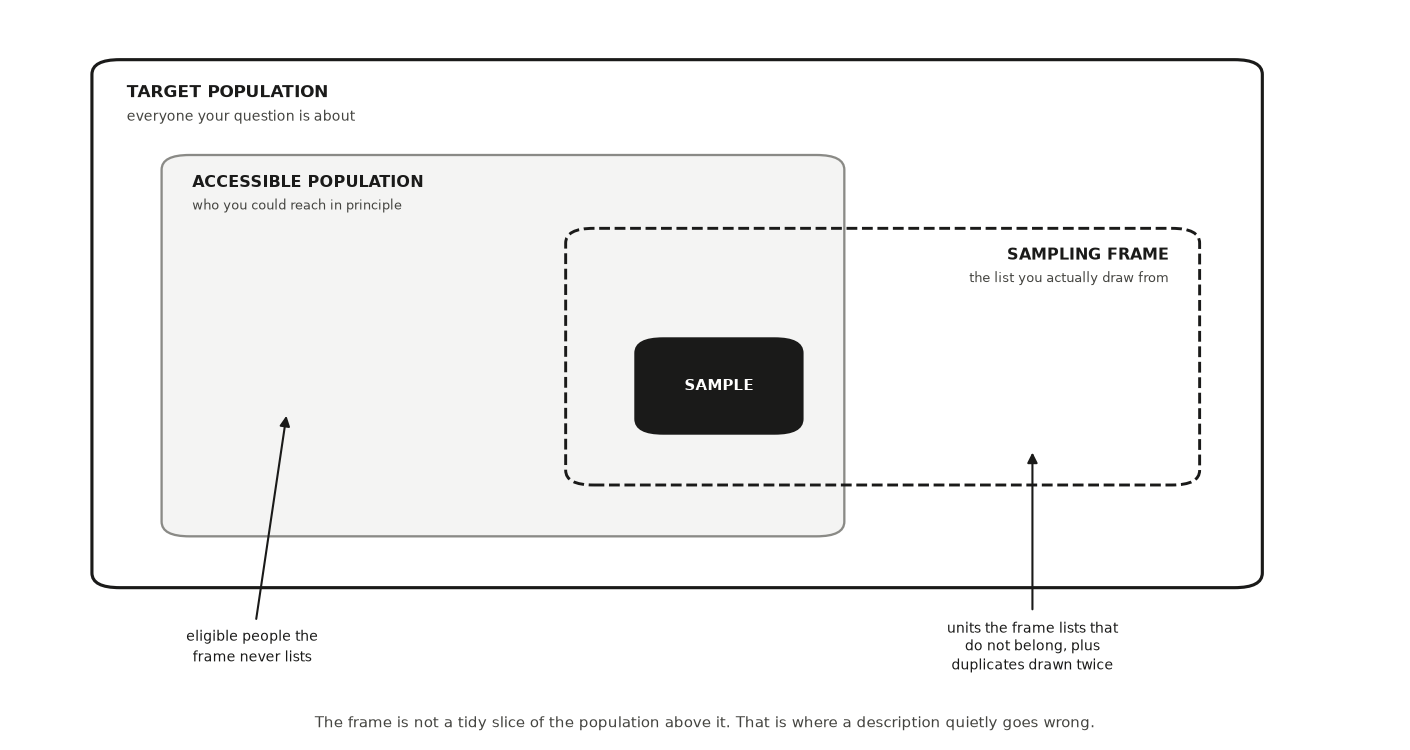
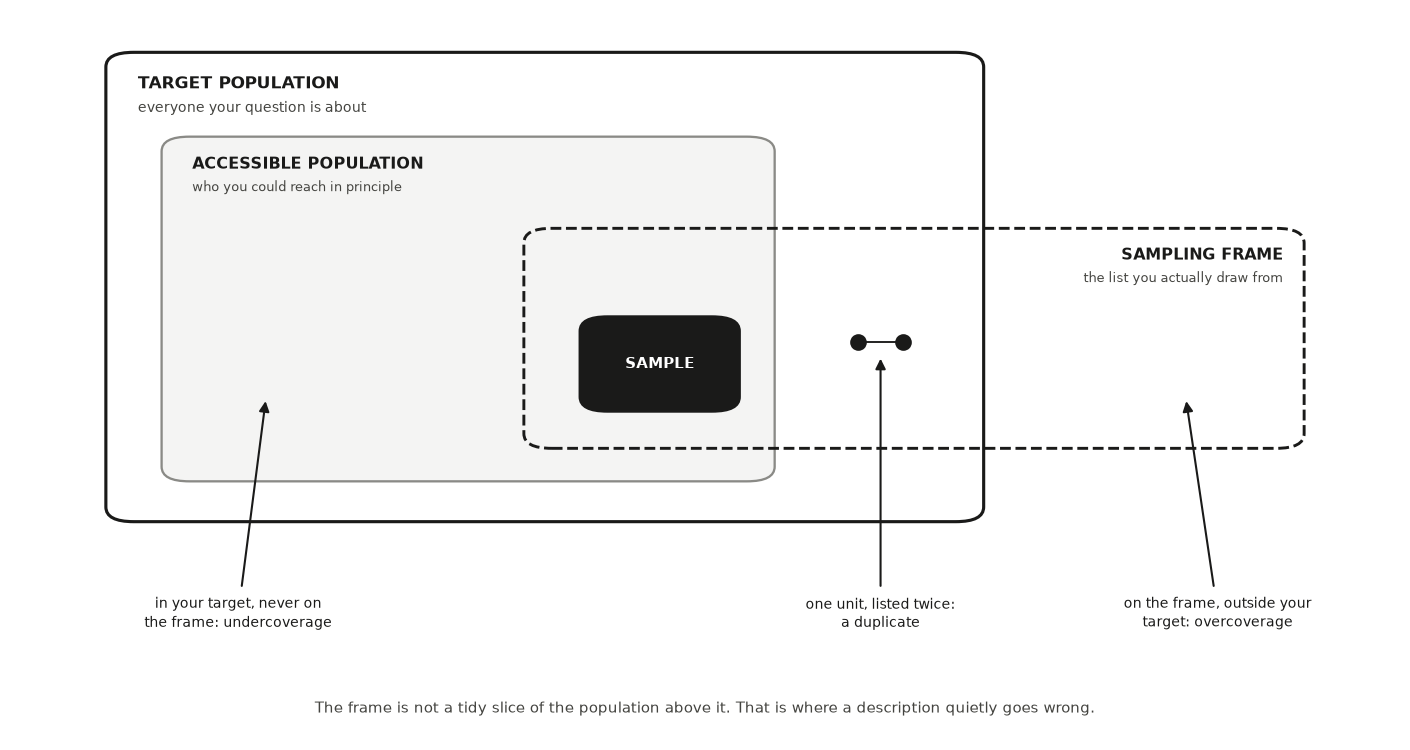
build: Render site and books (D48 review round)

diff --git a/docs/book/part2-curiosity-to-design/10-declaring-and-diagnosing-a-research-design.html b/docs/book/part2-curiosity-to-design/10-declaring-and-diagnosing-a-research-design.html
@@ -759,13 +759,13 @@ div.csl-indent {
 </section>
 <section id="the-concept" class="level2" data-number="12.2">
 <h2 data-number="12.2" class="anchored" data-anchor-id="the-concept"><span class="header-section-number">12.2</span> The concept</h2>
-<p>In chapter 9 you built the four parts of a design. This chapter puts them to the test with a three-step loop this book borrows from RDSS (<em>Research Design in the Social Sciences: Declare, Diagnose, Redesign</em>) <span class="citation" data-cites="blair2023rdss">(<a href="#ref-blair2023rdss" role="doc-biblioref">Blair et al. 2023</a>)</span>.</p>
+<p>In chapter 9 you built the four parts of a design. This chapter puts them to the test with a three-step loop this book borrows from RDSS (<em>Research Design in the Social Sciences: Declaration, Diagnosis, and Redesign</em>) <span class="citation" data-cites="blair2023rdss">(<a href="#ref-blair2023rdss" role="doc-biblioref">Blair et al. 2023</a>)</span>.</p>
 <p><strong>Declare</strong> means writing your four design parts as something a computer can run: a model that generates fake data, an inquiry it can compute on that fake data, a plan for sampling and assigning conditions, and a rule for turning data into an estimate. <em>Example:</em> code that invents 40 shoppers, flips a coin to give each the new checkout screen, and subtracts the two group averages.</p>
 <p><strong>Diagnose</strong> means running that declared design many times on fresh simulated worlds and watching how its estimate behaves. <em>Example:</em> run the coin-flip study 2,000 times and collect all 2,000 estimates. Three numbers start the story, and each answers a different worry.</p>
 <p><strong>Bias</strong> is the average of your errors across the runs, counting direction: each estimate minus the truth, averaged. A design is unbiased when its estimates center on the true answer. <em>Example:</em> the truth is 2, and five runs return 0, 1, 2, 3, and 4. The errors are -2, -1, 0, +1, +2, which average to zero, so bias is zero even though only one run landed on 2. Direction is what makes bias different from plain distance: misses that cancel tell you the design is aimed correctly, while misses that all lean one way tell you it is tilted.</p>
 <p><strong>Variance</strong> is how much the estimate wobbles from one run to the next. <em>Example:</em> estimates swinging between -5 and +9 around a true value of 2 have high variance. Collecting more of the same kind of data, from the same design, usually shrinks this wobble. It is the one problem size reliably helps.</p>
 <p><strong>Power</strong> is how often the design detects a real effect, and it means nothing until you say how you would decide <span class="citation" data-cites="greenland2016misinterpretations">(<a href="#ref-greenland2016misinterpretations" role="doc-biblioref">Greenland et al. 2016</a>)</span>. A <strong>statistical test</strong> is the rule you use to decide whether your data conflict enough with “no effect” to call the result real. <em>Example:</em> in the checkout study, a difference-in-means rule: declare an effect when the gap between the two groups is more than about twice its typical run-to-run wobble. The test’s <strong>threshold</strong> is how demanding that rule is, and it is read across imagined repetitions: at the usual 5 percent setting, a design whose true effect is ZERO would still cry effect in about 5 runs out of 100. The threshold is a property of the rule over many runs, never the chance that your one finding is false. <em>Example:</em> a design that clears that rule in 8 of 100 runs, when the true effect is 2, has 8% power, which is almost useless. Power moves with everything in the declaration: the test, the threshold, the effect you planted, the sample size, and how the world makes noise. Report the whole card beside the number.</p>
-<p>Bias, variance, and power are all the same kind of thing: a property of the design read across many simulated runs, never off a single study. Blair, Cooper, Coppock, and Humphreys introduced the term <strong>diagnosand</strong> for such a property, and the loop’s middle step takes its name from it <span class="citation" data-cites="blair2019declaring blair2023rdss">(<a href="#ref-blair2019declaring" role="doc-biblioref">Blair et al. 2019</a>, <a href="#ref-blair2023rdss" role="doc-biblioref">2023</a>)</span>.</p>
+<p>Bias, variance, and power are all the same kind of thing: a property of the design read across many simulated runs, never off a single study. Blair, Cooper, Coppock, and Humphreys introduced the term <strong>diagnosand</strong> for a property of a design you want to diagnose <span class="citation" data-cites="blair2019declaring blair2023rdss">(<a href="#ref-blair2019declaring" role="doc-biblioref">Blair et al. 2019</a>, <a href="#ref-blair2023rdss" role="doc-biblioref">2023</a>)</span>. Bias, variance, and power are three of them.</p>
 <p>Those three do not exhaust the pile, and fuller diagnoses add more. Two worth knowing by name. <strong>Root mean-squared error</strong> is the typical size of a miss, with big misses weighted extra. <em>Example:</em> in the five-run example above, the plain average distance is 1.2, but the RMSE is about 1.4, because the two 2-point misses count for more than their share. <strong>Coverage</strong> is how often the range you report around your estimate actually contains the truth. <em>Example:</em> if you report a range meant to be right 95 times out of 100, coverage checks whether it really is. A design can be unbiased and still miss badly every time, which is exactly why one number is never the whole diagnosis <span class="citation" data-cites="morris2019simulation">(<a href="#ref-morris2019simulation" role="doc-biblioref">Morris et al. 2019</a>)</span>. A later chapter builds these ranges properly; here you only need to know that a diagnosis can ask about them.</p>
 <p><strong>Redesign</strong> means changing exactly one part in response to the diagnosis, then diagnosing again. Low power from high variance calls for more data. A tilt built into the design, such as who ends up in which group, calls for a different design: more data makes a tilted estimate steadier, not truer.</p>
 <div class="quarto-figure quarto-figure-center">
@@ -821,7 +821,7 @@ div.csl-indent {
 <blockquote class="blockquote">
 <p><strong>You are working inside <a href="../studios/studio04-declare-and-diagnose.html">Studio 4: Declare and diagnose provisionally</a>.</strong> Keep what you write here; the studio’s milestone chapter is where it joins the other lessons’ pieces into one artifact you can defend. <!-- station-pointer:end --></p>
 </blockquote>
-<p><em>You have four design parts on paper. This step asks whether they would survive contact with the world, while a bad answer is still free.</em></p>
+<p><em>You have four design parts on paper. This step asks whether they would survive contact with the world, while a bad answer is still free. The declare-and-diagnose loop, and the word “diagnosand” for the properties you read out of it, come from Blair, Cooper, Coppock, and Humphreys, developed at book length in RDSS.</em></p>
 <p>The hands-on half of this section lives in the chapter’s <strong>companion notebook</strong>: open it in Colab with the badge at the top, and work the steps there.</p>
 <p>Commit your own expectation first, then delegate. Each prompt below leaves you a draft you still have to check. Simulation is where the loop gets fastest and most dangerous at once: modern coding assistants will write the script, run it, read the error, and patch it without waiting for you, and they will happily converge on code that runs cleanly while declaring a different design than yours. Let the tool own the typing. Keep ownership of the true effect you plant and the numbers you read out.</p>
 <div class="callout callout-style-default callout-important callout-titled" title="Do not delegate">

diff --git a/docs/book/part3-pathways/11-observational-descriptive-research.html b/docs/book/part3-pathways/11-observational-descriptive-research.html
@@ -760,18 +760,18 @@ div.csl-indent {
 </section>
 <section id="the-concept" class="level2" data-number="14.2">
 <h2 data-number="14.2" class="anchored" data-anchor-id="the-concept"><span class="header-section-number">14.2</span> The concept</h2>
-<p>This chapter follows the observational-descriptive pathway of the design library in RDSS <span class="citation" data-cites="blair2023rdss">(<a href="#ref-blair2023rdss" role="doc-biblioref">Blair et al. 2023</a>)</span>. <strong>Observational descriptive research</strong> means you sample and measure without assigning anyone a condition, then summarize what you found. Example: you pull the roll call records of every member of a legislature and report how often each one crossed party lines. Because no treatment is assigned, this pathway can describe, and with care generalize to a population, but it cannot by itself say one thing caused another.</p>
+<p>This chapter follows the observational-descriptive pathway of the design library in RDSS <span class="citation" data-cites="blair2023rdss">(<a href="#ref-blair2023rdss" role="doc-biblioref">Blair et al. 2023</a>)</span>. <strong>Observational descriptive research</strong> means you sample and measure without assigning anyone a condition, then summarize what you found. Example: you pull the roll call records of every member of a legislature and report how often each one crossed party lines. Because its inquiry and its answer strategy are descriptive, this pathway estimates distributions and relationships, and with care generalizes them to a population. Those estimates do not by themselves identify a causal effect. The next chapter takes the other road: observational data again, no assignment again, but a causal inquiry that has to carry an identification argument to earn its answer.</p>
 <p>Four groups keep such a description honest <span class="citation" data-cites="groves2009survey">(<a href="#ref-groves2009survey" role="doc-biblioref">Groves et al. 2009</a>)</span>. They are often drawn as boxes inside boxes, and that picture is worth knowing along with the place it lies.</p>
 <ul>
 <li><strong>Target population</strong>: everyone your question is about. Example: every customer a streaming service will ever bill. This is the group you wish you could study.</li>
 <li><strong>Accessible population</strong>: the part of the target you could reach in principle, given time and cost. Example: the customers you can actually contact with a survey this quarter.</li>
-<li><strong>Sampling frame</strong>: the concrete list you actually draw from. Example: the current subscriber list your survey tool pulls from. This is the box that misbehaves. A frame can miss people who belong in your target, and it can also carry people who do not belong at all, plus duplicates that give one person two chances of being picked. Treating the frame as a clean slice of the population above it is one of the quietest ways a description goes wrong.</li>
+<li><strong>Sampling frame</strong>: the concrete list you actually draw from. Example: the current subscriber list your survey tool pulls from. This is the box that misbehaves, in three ways worth naming. <strong>Undercoverage</strong> is people who belong in your target and never make the list. <strong>Overcoverage</strong> is records on the list for people outside your target altogether. A <strong>duplicate</strong> is one person listed twice, which quietly gives them two chances of being picked. Treating the frame as a clean slice of the population above it is one of the quietest ways a description goes wrong.</li>
 <li><strong>Sample</strong>: the customers you actually survey, drawn from the frame and no wider.</li>
 </ul>
 <div class="quarto-figure quarto-figure-center">
 <figure class="figure">
-<p><img src="../images/concepts/sampling_groups.png" class="img-fluid figure-img" alt="Diagram of four overlapping regions labeled target population, accessible population, sampling frame, and sample. The frame region extends partly outside the accessible population to show ineligible units, and part of the accessible population falls outside the frame to show eligible people the frame misses. The sample sits inside the frame."></p>
-<figcaption>The four groups a description has to keep straight. Only the sample is drawn from the frame, and the frame is not a tidy slice of the population above it: it misses eligible people and carries ineligible ones and duplicates.</figcaption>
+<p><img src="../images/concepts/sampling_groups.png" class="img-fluid figure-img" alt="Diagram of overlapping regions. A large box is the target population; inside it, a shaded box is the accessible population. A dashed box, the sampling frame, starts inside those and extends out past the right edge of the target population. The sample is a solid box inside the frame. Three labels point into the picture: the part of the target never listed on the frame is undercoverage; the part of the frame outside the target is overcoverage; and two joined dots inside the frame are one unit listed twice, a duplicate."></p>
+<figcaption>The four groups a description has to keep straight. The frame crosses the edge of your target population, which is where the three coverage errors live: people inside the target who never reach the list, records on the list that fall outside the target altogether, and one unit listed twice.</figcaption>
 </figure>
 </div>
 <p>A claim is honest only when the box it describes matches the box it names. Two processes decide how the boxes differ. <strong>Selection</strong> is any process that decides who lands in your data instead of chance alone. Example: a survey taken outside one dining hall selects for people who eat there at lunch. <strong>Nonresponse</strong> is the units you drew who never gave you data. Example: of 500 people contacted, 300 reply, and the 200 silent ones are rarely a random slice. When either process relates to the very thing you are measuring, your summary drifts from the truth, and no amount of extra data pulls it back <span class="citation" data-cites="bethlehem2010selection">(<a href="#ref-bethlehem2010selection" role="doc-biblioref">Bethlehem 2010</a>)</span>. Size shrinks the sample-to-sample wobble. It does nothing to a systematic tilt in who you reached <span class="citation" data-cites="meng2018paradises">(<a href="#ref-meng2018paradises" role="doc-biblioref">Meng 2018</a>)</span>.</p>

diff --git a/docs/book/part2-curiosity-to-design/09-model-inquiry-data-strategy-and-answer-strategy.html b/docs/book/part2-curiosity-to-design/09-model-inquiry-data-strategy-and-answer-strategy.html
@@ -759,7 +759,7 @@ div.csl-indent {
 </section>
 <section id="the-concept" class="level2" data-number="10.2">
 <h2 data-number="10.2" class="anchored" data-anchor-id="the-concept"><span class="header-section-number">10.2</span> The concept</h2>
-<p>Every research design has the same four parts. Blair, Cooper, Coppock, and Humphreys named that framework <strong>MIDA</strong>, one letter each, and developed it at book length in <em>Research Design in the Social Sciences</em> <span class="citation" data-cites="blair2019declaring blair2023rdss">(<a href="#ref-blair2019declaring" role="doc-biblioref">Blair et al. 2019</a>, <a href="#ref-blair2023rdss" role="doc-biblioref">2023</a>)</span>. This book adopts their four labels and puts them in plain language for a first quantitative project.</p>
+<p>Any research design can be described in four parts. Blair, Cooper, Coppock, and Humphreys named that framework <strong>MIDA</strong>, one letter each <span class="citation" data-cites="blair2019declaring">(<a href="#ref-blair2019declaring" role="doc-biblioref">Blair et al. 2019</a>)</span>, and Blair, Coppock, and Humphreys developed it at book length in <em>Research Design in the Social Sciences</em> <span class="citation" data-cites="blair2023rdss">(<a href="#ref-blair2023rdss" role="doc-biblioref">Blair et al. 2023</a>)</span>. This book adopts their four labels and puts them in plain language for a first quantitative project.</p>
 <ul>
 <li><strong>Model</strong>: your written picture of how the world could work, meaning which things exist and what could affect what. Example: “a listener’s chance of accepting a recommended song runs from 0 to 1, and a new recommender could nudge it up.”</li>
 <li><strong>Inquiry</strong>: the one exact quantity you want from that world, named before any outcome arrive. Example: “the average lift in accept rate the new recommender causes across listeners.”</li>
@@ -768,8 +768,8 @@ div.csl-indent {
 </ul>
 <div class="quarto-figure quarto-figure-center">
 <figure class="figure">
-<p><img src="../images/concepts/mida_map.png" class="img-fluid figure-img" alt="Diagram with four rounded boxes in two rows. Top row, labeled on paper: Model, how the world could work, with an arrow labeled makes askable pointing to Inquiry, the one quantity you want from it. Bottom row, labeled in the world: Data strategy, every procedure that makes the data, with an arrow labeled feeds pointing to Answer strategy, how those data become an answer. A dashed arrow runs upward from Answer strategy to Inquiry, labeled alignment: does the answer reach the inquiry?"></p>
-<figcaption>The four parts of a design. The top row is what you assert on paper; the bottom row is what you actually run. The dashed arrow is the check that matters: your answer strategy has to reach the inquiry you named.</figcaption>
+<p><img src="../images/concepts/mida_map.png" class="img-fluid figure-img" alt="Diagram with four rounded boxes in two rows. Top row, labeled what you want to learn: Model, how the world could work, with an arrow labeled makes askable pointing to Inquiry, the one quantity you want from it. Bottom row, labeled how you will learn it: Data strategy, every procedure that makes the data including sampling, assignment and measurement, with an arrow labeled feeds pointing to Answer strategy, how those data become an answer with uncertainty included. A dashed arrow runs upward from Answer strategy to Inquiry, labeled alignment: does the answer reach the inquiry?"></p>
+<figcaption>The four parts of a design. The top row is what you want to learn; the bottom row is how you plan to learn it. All four are written down before you collect anything, and the dashed arrow is the check that matters: your answer strategy has to reach the inquiry you named.</figcaption>
 </figure>
 </div>
 <p>The four are not a checklist you fill in any order <span class="citation" data-cites="blair2023rdss">(<a href="#ref-blair2023rdss" role="doc-biblioref">Blair et al. 2023</a>)</span>. They must <strong>align</strong>, meaning your data and answer strategies actually reach the inquiry your model makes askable. Example of misalignment: a causal inquiry (“the lift the recommender <em>causes</em>”) served by a data strategy where the people who see the new version differ systematically from those who do not. What that comparison delivers is an <strong>association</strong>, meaning two things move together without proof that one caused the other.</p>
@@ -818,7 +818,7 @@ div.csl-indent {
 <blockquote class="blockquote">
 <p><strong>You are working inside <a href="../studios/studio04-declare-and-diagnose.html">Studio 4: Declare and diagnose provisionally</a>.</strong> Keep what you write here; the studio’s milestone chapter is where it joins the other lessons’ pieces into one artifact you can defend. <!-- station-pointer:end --></p>
 </blockquote>
-<p><em>You have a question and a gap you can defend. This step turns them into a design, on one page, in four parts that have to agree with each other.</em></p>
+<p><em>You have a question and a gap you can defend. This step turns them into a design, on one page, in four parts that have to agree with each other. Those four parts are the MIDA framework of Blair, Cooper, Coppock, and Humphreys, developed at book length in RDSS; you are writing your own project into their labels.</em></p>
 <p>The hands-on half of this section lives in the chapter’s <strong>companion notebook</strong>: open it in Colab with the badge at the top, and work the steps there.</p>
 <p>Write your own draft of each part first, then ask. Committing first gives the AI output something to disagree with. And expect to go around more than once: draft, read the reply, correct the one part it got wrong, paste your correction back, ask again. Each turn should sharpen the inquiry into fewer words, not more.</p>
 <div class="callout callout-style-default callout-important callout-titled" title="Do not delegate">

diff --git a/docs/book/part3-pathways/16-hybrid-and-complex-designs.html b/docs/book/part3-pathways/16-hybrid-and-complex-designs.html
@@ -762,7 +762,7 @@ div.csl-indent {
 </section>
 <section id="the-concept" class="level2" data-number="19.2">
 <h2 data-number="19.2" class="anchored" data-anchor-id="the-concept"><span class="header-section-number">19.2</span> The concept</h2>
-<p>Every research design has four parts, named <strong>MIDA</strong> by Blair, Cooper, Coppock, and Humphreys <span class="citation" data-cites="blair2019declaring blair2023rdss">(<a href="#ref-blair2019declaring" role="doc-biblioref">Blair et al. 2019</a>, <a href="#ref-blair2023rdss" role="doc-biblioref">2023</a>)</span>: the <strong>Model</strong> (your written picture of how the world could work), the <strong>Inquiry</strong> (the one exact quantity you want from it), the <strong>Data strategy</strong> (every procedure that makes the data, from sampling to measurement), and the <strong>Answer strategy</strong> (the whole procedure that turns those data into an answer, uncertainty included). The Colab lab builds all four from scratch. This chapter takes them somewhere harder.</p>
+<p>Every research design has four parts, named <strong>MIDA</strong> by Blair, Cooper, Coppock, and Humphreys <span class="citation" data-cites="blair2019declaring">(<a href="#ref-blair2019declaring" role="doc-biblioref">Blair et al. 2019</a>)</span> and developed in RDSS <span class="citation" data-cites="blair2023rdss">(<a href="#ref-blair2023rdss" role="doc-biblioref">Blair et al. 2023</a>)</span>: the <strong>Model</strong> (your written picture of how the world could work), the <strong>Inquiry</strong> (the one exact quantity you want from it), the <strong>Data strategy</strong> (every procedure that makes the data, from sampling to measurement), and the <strong>Answer strategy</strong> (the whole procedure that turns those data into an answer, uncertainty included). The Colab lab builds all four from scratch. This chapter takes them somewhere harder.</p>
 <p>A <strong>complex, or hybrid, design</strong> is a research design whose four MIDA parts have more than one moving piece: several measurements, stages, or sub-questions stitched into a single answer <span class="citation" data-cites="blair2023rdss">(<a href="#ref-blair2023rdss" role="doc-biblioref">Blair et al. 2023</a>)</span>. Example: computing a market’s concentration score from two separate measurements, each drawn from its own source and carrying its own error.</p>
 <p>Two ideas decide whether such a design holds together. The first is <strong>alignment</strong>, meaning all four parts point at the same single quantity. Complexity breaks it in a fresh way: two carefully built sub-measurements can each be fine yet quietly target slightly different quantities that never combine into the one you named. The second is <strong>error propagation</strong>, meaning each measured input’s uncertainty flows into the final answer, sometimes amplified <span class="citation" data-cites="jcgm2008gum">(<a href="#ref-jcgm2008gum" role="doc-biblioref">Joint Committee for Guides in Metrology 2008</a>)</span>. Example: if your answer depends on the <em>square</em> of a measured share, a 1% error in that share becomes roughly a 2% error in the result.</p>
 <p>Keep the lab’s two failure words close. <strong>Bias</strong> is a systematic tilt that more data does not shrink; <strong>variance</strong> is run-to-run wobble that more data does. Complexity lets a small systematic error hide behind an impressively small random one.</p>
@@ -806,7 +806,7 @@ div.csl-indent {
 <blockquote class="blockquote">
 <p><strong>You are working inside <a href="../studios/studio05-develop-the-pathway.html">Studio 5: Develop the pathway</a>.</strong> This lesson is an optional overlay: work it when your project needs it, and skip it without guilt when it does not. <!-- station-pointer:end --></p>
 </blockquote>
-<p><em>You have studied your primary pathway and at least one useful contrast. This step decides whether your own project needs more than one moving piece, and makes you justify the answer either way.</em></p>
+<p><em>You have studied your primary pathway and at least one useful contrast. This step decides whether your own project needs more than one moving piece, and makes you justify the answer either way. The four MIDA parts you are taking apart here are Blair, Cooper, Coppock, and Humphreys’ framework, developed at book length in RDSS.</em></p>
 <p>The hands-on half of this section lives in the chapter’s <strong>companion notebook</strong>: open it in Colab with the badge at the top, and work the steps there.</p>
 <p>Commit your own answer first, then delegate. Each prompt is a checkable job, not a request for a verdict. Run them as a loop rather than a single shot: the second pass, where you hand back the piece the tool skipped and ask again, is usually the one that finds the uncharacterized step. Agentic tools that chain those passes themselves will assemble a complete-looking error budget in one go. A complete look is the failure mode this chapter is about.</p>
 <div class="callout callout-style-default callout-important callout-titled" title="Do not delegate">

diff --git a/docs/index.html b/docs/index.html
@@ -228,8 +228,8 @@ ul.task-list li input[type="checkbox"] {
 <section id="course-materials" class="level2">
 <h2 class="anchored" data-anchor-id="course-materials">Course Materials</h2>
 <ul>
-<li><p><strong>Course book (free, required):</strong> the course’s own open text, <a href="book/index.html" target="_blank"><strong>EDR|AI</strong> — <strong><em>Evidence-Driven Research in the Age of AI: How to Design, Analyze, Verify, and Defend</em></strong></a>, with AI generated translations in <a href="book-pt/index.html" target="_blank">Brazilian Portuguese</a> and <a href="book-es/index.html" target="_blank">Spanish</a>. It walks through the material at an undergraduate reading level, and every chapter has its <strong>own companion Colab notebook</strong> where you run the chapter’s code and complete its closing <strong>“It is your turn”</strong> section. <strong>EDR|AI is a work in progress</strong>: it is still under development and will keep growing and improving during the semester.</p></li>
-<li><p><strong>Theory text (free, recommended):</strong> <strong>Blair, Coppock &amp; Humphreys (2023), <em>Research Design in the Social Sciences: Declaration, Diagnosis, and Redesign</em></strong> (RDSS, Princeton University Press) — read <strong>free online</strong> at <a href="https://book.declaredesign.org/" target="_blank">book.declaredesign.org</a>; no purchase required. The course book translates RDSS to the undergraduate audience, so each week the course-book chapters are <strong>required</strong> and the matching RDSS chapters are <strong>recommended</strong>.</p></li>
+<li><p><strong>Course book (free to read, required):</strong> the course’s own book, <a href="book/index.html" target="_blank"><strong>EDR|AI</strong> — <strong><em>Evidence-Driven Research in the Age of AI: How to Design, Analyze, Verify, and Defend</em></strong></a>, with AI generated translations in <a href="book-pt/index.html" target="_blank">Brazilian Portuguese</a> and <a href="book-es/index.html" target="_blank">Spanish</a>. It walks through the material at an undergraduate reading level, and every chapter has its <strong>own companion Colab notebook</strong> where you run the chapter’s code and complete its closing <strong>“It is your turn”</strong> section. <strong>EDR|AI is a work in progress</strong>: it is still under development and will keep growing and improving during the semester.</p></li>
+<li><p><strong>Theory text (free, recommended):</strong> <strong>Blair, Coppock &amp; Humphreys (2023), <em>Research Design in the Social Sciences: Declaration, Diagnosis, and Redesign</em></strong> (RDSS, Princeton University Press) — read <strong>free online</strong> at <a href="https://book.declaredesign.org/" target="_blank">book.declaredesign.org</a>; no purchase required. The course book draws on and adapts selected parts of RDSS for a first quantitative empirical project at an undergraduate reading level; it is a companion and an operational on-ramp, not a translation or a substitute. Each week the course-book chapters are <strong>required</strong> and the matching RDSS chapters are <strong>recommended</strong>.</p></li>
 <li><p><strong>Optional companion:</strong> Bergstrom &amp; West, <em>Calling Bullshit</em> (public case studies at <a href="https://callingbullshit.org/" target="_blank">callingbullshit.org</a>). Any additional readings are posted on Brightspace.</p></li>
 <li><p><strong>Computing (Required):</strong> A laptop or desktop with internet access and a modern web browser. Course activities run in the browser through <a href="https://colab.research.google.com/" target="_blank">Google Colab</a> — no local installation required. There are <strong>no purchases</strong> required for this course.</p></li>
 <li><p><strong>AI Tools:</strong></p>

diff --git a/docs/book/part2-curiosity-to-design/05-from-curiosity-to-a-research-problem.html b/docs/book/part2-curiosity-to-design/05-from-curiosity-to-a-research-problem.html
@@ -793,7 +793,7 @@ div.csl-indent {
 </ol>
 <p>Stop there. Units, outcomes, conditions, question kind, and claim reach belong to the formal declaration that closes the next studio.</p>
 <p>Then test the problem three ways <span class="citation" data-cites="hulley2013designing">(<a href="#ref-hulley2013designing" role="doc-biblioref">Hulley et al. 2013</a>)</span>. <strong>Importance</strong> asks who could use the answer, and for what. <strong>Feasibility</strong> asks whether you can reach suitable evidence with the time, skills, and permissions you actually have. <strong>Possible contribution</strong> asks what the project might add — and stays provisional, because you cannot know a gap is real until Studio 3 maps the existing evidence.</p>
-<p>One more lens sharpens all three. A 2026 essay in <em>Science</em>, “Advancing science by designing for surprise,” starts from a blunt fact: an answer that confirms what everyone already believes teaches almost nothing <span class="citation" data-cites="evans2026surprise">(<a href="#ref-evans2026surprise" role="doc-biblioref">Evans et al. 2026</a>)</span>. The essay makes the idea usable: elicit informed predictions first, then compare them with what the evidence actually shows. <strong>Surprise</strong> is what that comparison measures. Before you look at any evidence, then, write the answer you currently expect and name the person for whom a different answer would be genuinely surprising. That written sentence is your <strong>expected answer</strong>, and the gap between it and what you eventually find is the most honest measure of what your project taught anyone. The essay’s warning travels with the tool: the more surprising the claim, the more evidence it takes, so surprise is a place to aim your question, never a license to inflate your answer.</p>
+<p>One more lens sharpens all three. A 2026 essay in <em>Science</em>, “Advancing science by designing for surprise,” starts from a blunt fact: an answer that confirms what everyone already believes teaches almost nothing <span class="citation" data-cites="evans2026surprise">(<a href="#ref-evans2026surprise" role="doc-biblioref">Evans et al. 2026</a>)</span>. The essay makes the idea usable: elicit informed predictions first, then compare them with what the evidence actually shows. The gap it names sits at the level of an <strong>audience</strong>, meaning the informed readers whose expectations your result would move, not at the level of any one researcher. Before you look at any evidence, then, write the answer you currently expect and name the person for whom a different answer would be genuinely surprising. That written sentence is your <strong>expected answer</strong>. Treat it as a planning proxy for that audience gap rather than a measure of what anyone learned, which would take evidence about the audience you do not have yet. The essay’s warning travels with the tool: the more surprising the claim, the more evidence it takes, so surprise is a place to aim your question, never a license to inflate your answer.</p>
 </section>
 <section id="a-worked-example" class="level2" data-number="1.3">
 <h2 data-number="1.3" class="anchored" data-anchor-id="a-worked-example"><span class="header-section-number">1.3</span> A worked example</h2>

diff --git a/docs/book/studios/studio04-declare-and-diagnose.html b/docs/book/studios/studio04-declare-and-diagnose.html
@@ -715,7 +715,7 @@ div.csl-indent {
 </blockquote>
 <section id="checkpoint" class="level2">
 <h2 class="anchored" data-anchor-id="checkpoint">The milestone ahead</h2>
-<p>This is the hinge of the book. Everything before it shaped a question; everything after it executes a design. The contract you write here (objective, estimand, population, data strategy, a provisional operationalization, warrant, answer strategy, uncertainty) is declared before any result exists, so that later changes are visibly design or visibly drift. Diagnosing it on simulated data now, while changing your mind is still free, is what makes the declaration honest rather than decorative. The four MIDA parts you declare here, and the declare-and-diagnose loop you run on them, were introduced by Blair, Cooper, Coppock, and Humphreys <span class="citation" data-cites="blair2019declaring blair2023rdss">(<a href="#ref-blair2019declaring" role="doc-biblioref">Blair et al. 2019</a>, <a href="#ref-blair2023rdss" role="doc-biblioref">2023</a>)</span>; this book puts them in plain language and joins them to a governed AI workflow.</p>
+<p>This is the hinge of the book. Everything before it shaped a question; everything after it executes a design. The contract you write here (objective, estimand, population, data strategy, a provisional operationalization, warrant, answer strategy, uncertainty) is declared before any result exists, so that later changes are visibly design or visibly drift. Diagnosing it on simulated data now, while changing your mind is still free, is what makes the declaration honest rather than decorative. The four MIDA parts you declare here, and the declare-and-diagnose loop you run on them, were introduced by Blair, Cooper, Coppock, and Humphreys <span class="citation" data-cites="blair2019declaring">(<a href="#ref-blair2019declaring" role="doc-biblioref">Blair et al. 2019</a>)</span> and developed in RDSS <span class="citation" data-cites="blair2023rdss">(<a href="#ref-blair2023rdss" role="doc-biblioref">Blair et al. 2023</a>)</span>; this book puts them in plain language and joins them to a governed AI workflow.</p>
 <p>This studio closes with <strong><a href="../studios/milestone04-declare-and-diagnose.html">Milestone 4: Your research contract, v0</a></strong>, a short chapter of its own after the lessons. <strong>What it asks you to produce.</strong> Research Contract v0 — objective, target estimand, population, setting and time, data strategy, a provisional operationalization you mark for revision, warrant, answer strategy and uncertainty statement — plus the design properties you diagnosed (its bias, its wobble, and how often it would detect what you are looking for), your permission status, and a redesign record. Measurement proper is taught and assessed in Studio 6; here you only commit to a starting choice and say why it is defensible for now.</p>
 <p>Milestone 5 commits the contract to one research pathway and writes what that pathway can and cannot establish. The milestone chapter keeps the working details: the practice steps, the versioned record, and how the artifact is assessed.</p>
 </section>

diff --git a/docs/book/studios/studio05-develop-the-pathway.html b/docs/book/studios/studio05-develop-the-pathway.html
@@ -23,7 +23,26 @@ ul.task-list li input[type="checkbox"] {
   margin: 0 0.8em 0.2em -1em; /* quarto-specific, see https://github.com/quarto-dev/quarto-cli/issues/4556 */ 
   vertical-align: middle;
 }
-</style>
+/* CSS for citations */
+div.csl-bib-body { }
+div.csl-entry {
+  clear: both;
+}
+.hanging-indent div.csl-entry {
+  margin-left:2em;
+  text-indent:-2em;
+}
+div.csl-left-margin {
+  min-width:2em;
+  float:left;
+}
+div.csl-right-inline {
+  margin-left:2em;
+  padding-left:1em;
+}
+div.csl-indent {
+  margin-left: 2em;
+}</style>
 
 
 <script src="../site_libs/quarto-nav/quarto-nav.js"></script>
@@ -608,6 +627,7 @@ ul.task-list li input[type="checkbox"] {
   <li><a href="#checkpoint" id="toc-checkpoint" class="nav-link active" data-scroll-target="#checkpoint">The milestone ahead</a></li>
   <li><a href="#choosing-your-pathway" id="toc-choosing-your-pathway" class="nav-link" data-scroll-target="#choosing-your-pathway">Choosing your pathway</a></li>
   <li><a href="#the-lessons-in-this-studio" id="toc-the-lessons-in-this-studio" class="nav-link" data-scroll-target="#the-lessons-in-this-studio">The lessons in this studio</a></li>
+  <li><a href="#bibliography" id="toc-bibliography" class="nav-link" data-scroll-target="#bibliography">References</a></li>
   </ul>
 </nav>
     </div>
@@ -702,7 +722,7 @@ ul.task-list li input[type="checkbox"] {
 </section>
 <section id="choosing-your-pathway" class="level2">
 <h2 class="anchored" data-anchor-id="choosing-your-pathway">Choosing your pathway</h2>
-<p>Five pathways run through this part of the book, and your question plus what you are allowed to do picks one. Read the row that fits, then read one that does not, so you can say why yours is right.</p>
+<p>Five pathways run through this part of the book, and your question plus what you are allowed to do picks one. Read the row that fits, then read one that does not, so you can say why yours is right. The first four adapt the design library in RDSS <span class="citation" data-cites="blair2023rdss">(<a href="#ref-blair2023rdss" role="doc-biblioref">Blair et al. 2023</a>)</span>; prediction is this book’s added fifth pathway.</p>
 <table class="caption-top table">
 <colgroup>
 <col style="width: 33%">
@@ -761,6 +781,14 @@ ul.task-list li input[type="checkbox"] {
 <p>When the last lesson closes, the milestone chapter is next. Nothing you write in a lesson is busywork: every piece above is on the milestone’s checklist.</p>
 
 
+</section>
+<section id="bibliography" class="level1 unnumbered">
+<h1 class="unnumbered">References</h1>
+<div id="refs" class="references csl-bib-body hanging-indent" role="list">
+<div id="ref-blair2023rdss" class="csl-entry" role="listitem">
+Blair, Graeme, Alexander Coppock, and Macartan Humphreys. 2023. <em>Research Design in the Social Sciences: Declaration, Diagnosis, and Redesign</em>. Princeton University Press. <a href="https://book.declaredesign.org">https://book.declaredesign.org</a>.
+</div>
+</div>
 </section>
 
 </main> <!-- /main -->

diff --git a/docs/book/part5-communicating/27-research-posters.html b/docs/book/part5-communicating/27-research-posters.html
@@ -770,7 +770,7 @@ div.csl-indent {
 <li><strong>Figure honesty.</strong> The rule that a figure’s picture cannot say more than its data. Example: if the real gap is three points, the bars should look about three points apart, not twice as tall.</li>
 <li><strong>Truncated axis.</strong> An axis that starts above the bottom of its scale instead of at the floor. Example: a completion-rate axis running 70 to 76 instead of 0 to 100 magnifies a small difference into a cliff.</li>
 <li><strong>Uncertainty on the page.</strong> The interval or caveat printed in the same glance as the claim, not buried in a footnote <span class="citation" data-cites="alley2013craft">(<a href="#ref-alley2013craft" role="doc-biblioref">Alley 2013</a>)</span>. Example: a “±4 points” error bar drawn right on the headline figure.</li>
-<li><strong>Accessibility.</strong> Whether your message reaches readers who perceive differently. The published standard is WCAG 2.2: color is never the only visual means of carrying information, and every informative image needs a text alternative that serves the same purpose <span class="citation" data-cites="w3c2024wcag22">(<a href="#ref-w3c2024wcag22" role="doc-biblioref">World Wide Web Consortium 2024</a>)</span>. Example: a red-green bar pair carries nothing for a red-green color-blind reader, roughly 1 in 12 men <span class="citation" data-cites="crameri2020colour">(<a href="#ref-crameri2020colour" role="doc-biblioref">Crameri et al. 2020</a>)</span>.</li>
+<li><strong>Accessibility.</strong> Whether your message reaches readers who perceive differently. For the web version of a poster, WCAG 2.2 is the published standard: color is never the only visual means of carrying information, and every informative image needs a text alternative that serves the same purpose <span class="citation" data-cites="w3c2024wcag22">(<a href="#ref-w3c2024wcag22" role="doc-biblioref">World Wide Web Consortium 2024</a>)</span>. Its normative scope is web content, so treat the same two rules as good practice for a printed board rather than a formal requirement. Example: a red-green bar pair carries nothing for a red-green color-blind reader, roughly 1 in 12 men <span class="citation" data-cites="crameri2020colour">(<a href="#ref-crameri2020colour" role="doc-biblioref">Crameri et al. 2020</a>)</span>.</li>
 <li><strong>Redundant encoding.</strong> Carrying the same distinction in more than one channel, so no single channel is load-bearing. Example: label each bar with its value and give each a pattern, so color becomes a bonus, not the only signal.</li>
 </ul>
 <p>A poster that fails any one of these overclaims, even when its numbers are exactly right.</p>
